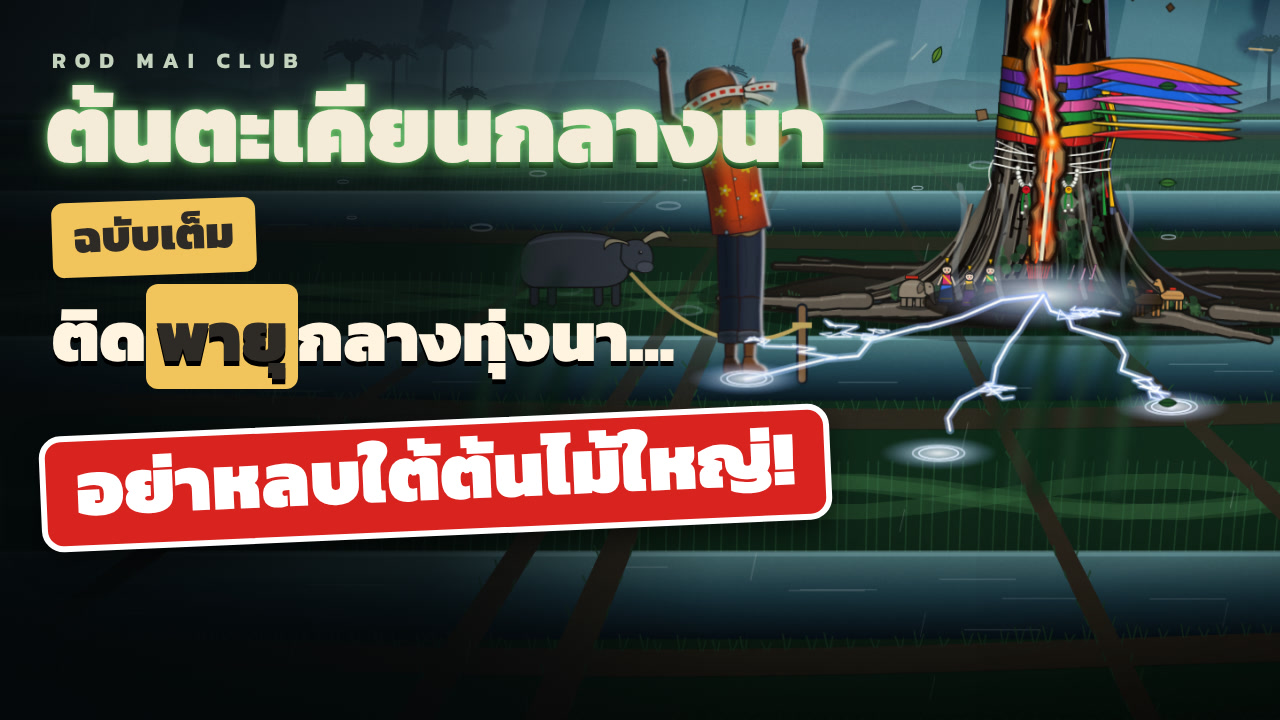
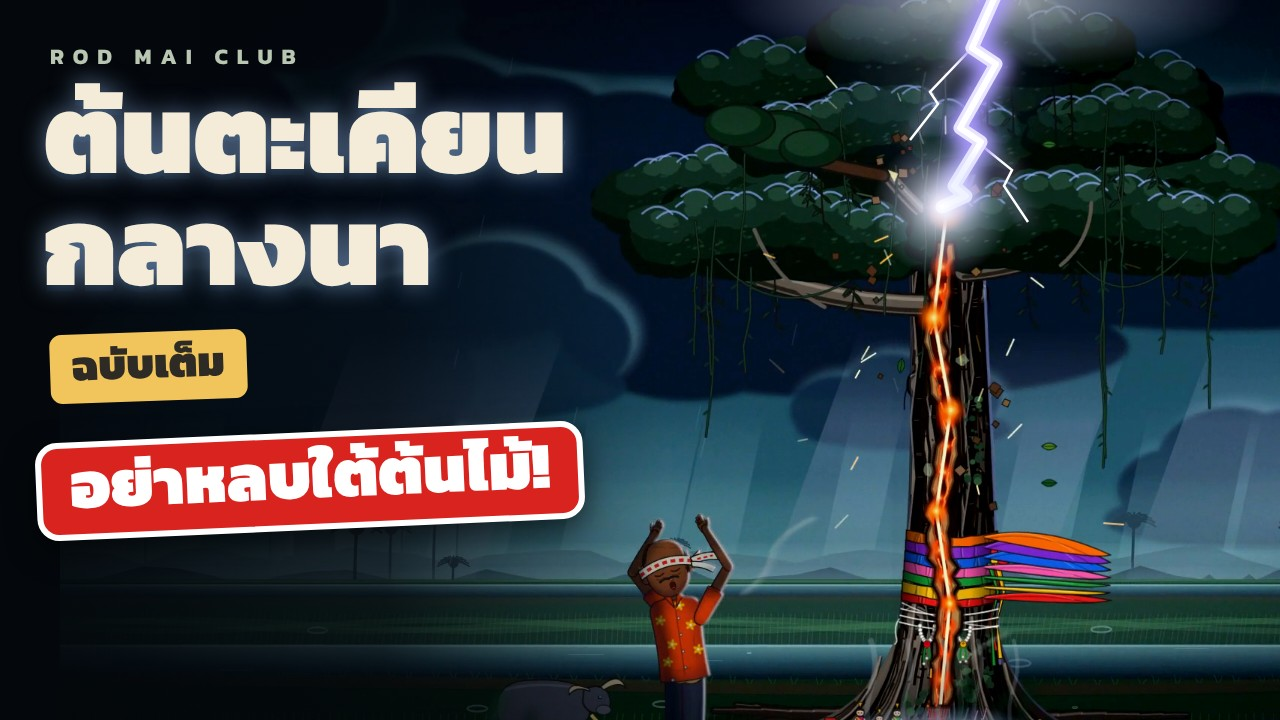
ต้นตะเคียน ฉบับเต็ม 16:9: new cover thumb.jpg 1280×720 (note 12) — the round-3 strike frame with the bolt into the crown, title and command clear of ลุงเปี๊ยก and the crown, readable at 320 px (thumb-src/thumb3.html)
Claude-Session: https://claude.ai/code/session_017iwyCw495QJRYFRbRfxgtH

diff --git a/video/takhian-long/thumb-src/thumb3.html b/video/takhian-long/thumb-src/thumb3.html
@@ -1,0 +1,24 @@
+<!doctype html><html><head><meta charset="utf-8"><link rel="stylesheet" href="fonts.css">
+<!-- cover round 3 (note 12): the strike frame 1:46.85 of the round-3 render, the bolt drawn into the crown, title clear of ลุงเปี๊ยก and the crown -->
+<style>
+html,body{margin:0;width:1280px;height:720px;overflow:hidden;background:#05080a}
+#bg{position:absolute;left:60px;top:0;width:1440px;height:810px;background:url(clean-106.85.png) 0 0/1440px 810px no-repeat;filter:saturate(1.2) contrast(1.1) brightness(1.05)}
+#shade{position:absolute;inset:0;background:linear-gradient(90deg,rgba(4,8,12,.92) 0%,rgba(4,8,12,.75) 30%,rgba(4,8,12,.1) 52%,rgba(4,8,12,0) 100%)}
+svg{position:absolute;left:0;top:0}
+.k{font-family:Kanit;font-weight:900;line-height:1.0}
+#brand{position:absolute;left:50px;top:40px;font:700 22px Kanit;letter-spacing:9px;color:#d8e8d0;opacity:.85}
+#title{position:absolute;left:44px;top:78px;font-size:112px;color:#f4ecd8;text-shadow:0 0 24px rgba(160,200,255,.55),0 6px 0 #05101a}
+#full{position:absolute;left:50px;top:332px;font:900 42px Kanit;color:#2e2a26;background:#f2c55c;padding:0 22px 6px;border-radius:12px;transform:rotate(-2deg)}
+#cmd{position:absolute;left:36px;top:432px;font-size:66px;color:#fff;background:#d8231f;border:6px solid #fff;border-radius:22px;padding:4px 28px 16px;transform:rotate(-2.5deg);box-shadow:0 10px 30px rgba(0,0,0,.6)}
+</style></head><body><div id="bg"></div><div id="shade"></div>
+<svg width="1280" height="720"><defs><filter id="gl" x="-1" y="-1" width="3" height="3"><feGaussianBlur stdDeviation="9"/></filter><radialGradient id="hit"><stop offset="0" stop-color="#fff" stop-opacity=".95"/><stop offset="1" stop-color="#b8c8ff" stop-opacity="0"/></radialGradient></defs>
+<g transform="translate(60,0)">
+<ellipse cx="925" cy="0" rx="260" ry="70" fill="url(#hit)" opacity=".7"/>
+<path id="b" d="M938,-10L912,48L936,64L900,128L921,142L894,186L906,196L882,207" fill="none" stroke-linejoin="round" stroke-linecap="round"/>
+<path d="M912,48L870,92L878,104L850,140M900,128L952,170L944,186L968,222" fill="none" stroke="#c8b8ff" stroke-width="5" filter="url(#gl)"/>
+<path d="M912,48L870,92L878,104L850,140M900,128L952,170L944,186L968,222" fill="none" stroke="#fff" stroke-width="2.5"/>
+<use href="#b" stroke="#a898ff" stroke-width="30" filter="url(#gl)"/><use href="#b" stroke="#e8e4ff" stroke-width="13"/><use href="#b" stroke="#fff" stroke-width="6"/>
+<circle cx="882" cy="207" r="70" fill="url(#hit)"/></g></svg>
+<div id="brand">ROD MAI CLUB</div><div id="title" class="k">ต้นตะเคียน<br>กลางนา</div><div id="full">ฉบับเต็ม</div>
+<div id="cmd" class="k">อย่าหลบใต้ต้นไม้!</div>
+</body></html>
